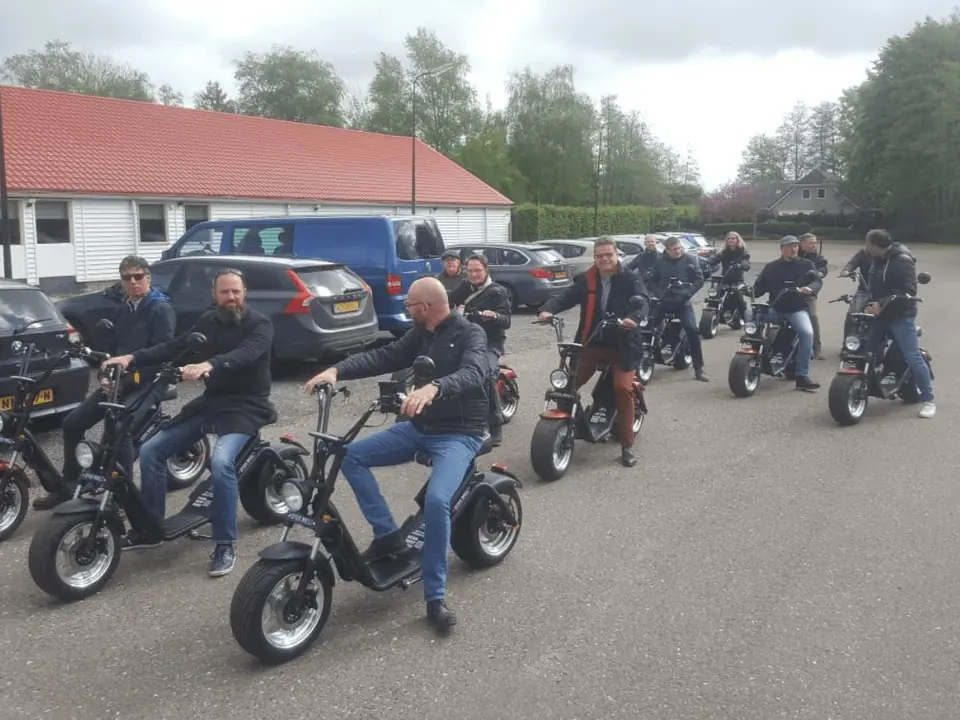
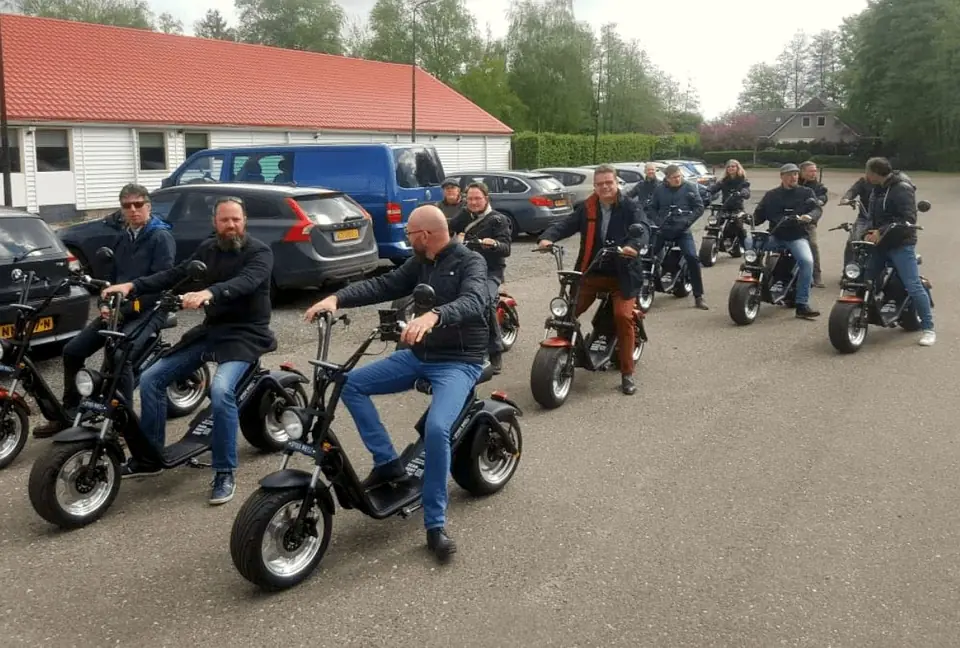
Teamuitjefoto lichter en warmer gemaakt, strook grijze lucht eraf

diff --git a/public/nieuws/index.html b/public/nieuws/index.html
@@ -54,7 +54,7 @@
       <h1>Nieuws &amp; tips</h1>
       <p>Inspiratie voor je rit door Giethoorn en Nationaal Park Weerribben-Wieden.</p>
     </div>
-    <div class="cards"><a class="card" href="/verken-giethoorn-en-haar-prachtige-omgeving-met-een-fatbike/"><img src="/assets/img/fatbike-huren-giethoorn-960.webp" srcset="/assets/img/fatbike-huren-giethoorn-480.webp 480w, /assets/img/fatbike-huren-giethoorn-960.webp 960w, /assets/img/fatbike-huren-giethoorn-1600.webp 1600w, /assets/img/fatbike-huren-giethoorn-2000.webp 2000w" sizes="(max-width: 700px) 100vw, 33vw" width="2000" height="1500" alt="" loading="lazy" decoding="async" class="card-img"><div class="card-body"><h3>Verken Giethoorn en omgeving met een fatbike</h3><p>Ontdek Giethoorn en Nationaal Park Weerribben-Wieden op een elektrische fatbike. Wat is een fatbike, waar rijd je en waarom huur je hem bij Badass Rentals?</p><span class="link-arrow">Lees verder</span></div></a><a class="card" href="/breng-je-team-dichter-bij-elkaar-met-e-choppers-en-fatbikes-in-giethoorn/"><img src="/assets/img/groepsuitje-e-choppers-blokzijl-960.webp" srcset="/assets/img/groepsuitje-e-choppers-blokzijl-480.webp 480w, /assets/img/groepsuitje-e-choppers-blokzijl-960.webp 960w, /assets/img/groepsuitje-e-choppers-blokzijl-1600.webp 1600w" sizes="(max-width: 700px) 100vw, 33vw" width="1600" height="1200" alt="" loading="lazy" decoding="async" class="card-img"><div class="card-body"><h3>Breng je team dichter bij elkaar met e-choppers en fatbikes</h3><p>Op zoek naar een teamuitje vol plezier en teambuilding? Ontdek Giethoorn met je collega&#x27;s op e-choppers en fatbikes, met puzzeltochten, varen en lekker eten.</p><span class="link-arrow">Lees verder</span></div></a><a class="card" href="/ontdek-het-adembenemende-giethoorn-en-weerribben-wieden-op-e-choppers-en-fatbikes/"><img src="/assets/img/e-choppers-weerribben-wieden-riet-960.webp" srcset="/assets/img/e-choppers-weerribben-wieden-riet-480.webp 480w, /assets/img/e-choppers-weerribben-wieden-riet-960.webp 960w, /assets/img/e-choppers-weerribben-wieden-riet-1600.webp 1600w, /assets/img/e-choppers-weerribben-wieden-riet-2000.webp 2000w" sizes="(max-width: 700px) 100vw, 33vw" width="2400" height="1800" alt="" loading="lazy" decoding="async" class="card-img"><div class="card-body"><h3>Ontdek Giethoorn en de Weerribben-Wieden op e-choppers en fatbikes</h3><p>Verken Giethoorn en Nationaal Park Weerribben-Wieden op een stille, emissievrije e-chopper of fatbike. Tips voor je route en direct online boeken.</p><span class="link-arrow">Lees verder</span></div></a><a class="card" href="/nostalgisch-solex-rijden-of-badass-op-een-e-chopper/"><img src="/assets/img/e-chopper-elektrische-harley-960.webp" srcset="/assets/img/e-chopper-elektrische-harley-480.webp 480w, /assets/img/e-chopper-elektrische-harley-960.webp 960w, /assets/img/e-chopper-elektrische-harley-1024.webp 1024w" sizes="(max-width: 700px) 100vw, 33vw" width="1024" height="768" alt="" loading="lazy" decoding="async" class="card-img"><div class="card-body"><h3>Nostalgisch Solex rijden of badass op een e-chopper</h3><p>Solex of e-chopper? Allebei stoer en nostalgisch, maar de e-chopper is stil en elektrisch. Ontdek de verschillen en cruise door Giethoorn en de Weerribben.</p><span class="link-arrow">Lees verder</span></div></a><a class="card" href="/ga-lekker-cruisen-door-oldemarkt/"><img src="/assets/img/e-choppers-weerribben-wieden-riet-960.webp" srcset="/assets/img/e-choppers-weerribben-wieden-riet-480.webp 480w, /assets/img/e-choppers-weerribben-wieden-riet-960.webp 960w, /assets/img/e-choppers-weerribben-wieden-riet-1600.webp 1600w, /assets/img/e-choppers-weerribben-wieden-riet-2000.webp 2000w" sizes="(max-width: 700px) 100vw, 33vw" width="2400" height="1800" alt="" loading="lazy" decoding="async" class="card-img"><div class="card-body"><h3>Ga lekker cruisen door Oldemarkt</h3><p>Oldemarkt ligt aan de rand van de Weerribben-Wieden. Tips voor bezienswaardigheden, de Waterbuffelfarm en leuke weetjes. Verken het op een e-chopper.</p><span class="link-arrow">Lees verder</span></div></a><a class="card" href="/lekker-uitwaaien-op-een-stoer-elektrisch-scootertje/"><img src="/assets/img/e-chopper-rijden-weerribben-wieden-960.webp" srcset="/assets/img/e-chopper-rijden-weerribben-wieden-480.webp 480w, /assets/img/e-chopper-rijden-weerribben-wieden-960.webp 960w, /assets/img/e-chopper-rijden-weerribben-wieden-1200.webp 1200w" sizes="(max-width: 700px) 100vw, 33vw" width="1200" height="900" alt="" loading="lazy" decoding="async" class="card-img"><div class="card-body"><h3>Lekker uitwaaien op een stoere elektrische scooter</h3><p>Voel de wind door je haren op een stoere, stille e-chopper. Cruise met 25 km/u door Giethoorn en Nationaal Park Weerribben-Wieden. Dit is inbegrepen.</p><span class="link-arrow">Lees verder</span></div></a><a class="card" href="/combineer-een-avondje-bios-met-een-tocht-op-onze-scooters/"><img src="/assets/img/e-chopper-bij-bruggetje-giethoorn-960.webp" srcset="/assets/img/e-chopper-bij-bruggetje-giethoorn-480.webp 480w, /assets/img/e-chopper-bij-bruggetje-giethoorn-960.webp 960w, /assets/img/e-chopper-bij-bruggetje-giethoorn-1600.webp 1600w, /assets/img/e-chopper-bij-bruggetje-giethoorn-2000.webp 2000w" sizes="(max-width: 700px) 100vw, 33vw" width="2400" height="1800" alt="" loading="lazy" decoding="async" class="card-img"><div class="card-body"><h3>Combineer een avondje bios met een tocht op de e-chopper</h3><p>Een middag of avond samen vrij? Maak er een badass datenight van: eerst cruisen door Giethoorn op de e-chopper, daarna naar de bioscoop in de regio.</p><span class="link-arrow">Lees verder</span></div></a><a class="card" href="/met-je-vriendinnen-op-stap-met-de-scooter/"><img src="/assets/img/groep-e-choppers-fatbikes-giethoorn-960.webp" srcset="/assets/img/groep-e-choppers-fatbikes-giethoorn-480.webp 480w, /assets/img/groep-e-choppers-fatbikes-giethoorn-960.webp 960w, /assets/img/groep-e-choppers-fatbikes-giethoorn-1600.webp 1600w" sizes="(max-width: 700px) 100vw, 33vw" width="1600" height="1200" alt="" loading="lazy" decoding="async" class="card-img"><div class="card-body"><h3>Met je vriendinnen op stap</h3><p>Geen inspiratie voor een uitje met je vriendinnen? Een lijst met leuke dingen om te doen, binnen en buiten. Van varen tot cruisen op een e-chopper.</p><span class="link-arrow">Lees verder</span></div></a><a class="card" href="/geef-papa-het-stoerste-vaderdag-cadeau/"><img src="/assets/img/e-chopper-fietspad-blokzijl-640.webp" srcset="/assets/img/e-chopper-fietspad-blokzijl-480.webp 480w, /assets/img/e-chopper-fietspad-blokzijl-640.webp 640w" sizes="(max-width: 700px) 100vw, 33vw" width="640" height="480" alt="" loading="lazy" decoding="async" class="card-img"><div class="card-body"><h3>Geef papa het stoerste vaderdagcadeau</h3><p>Op zoek naar een origineel vaderdagcadeau? Geef papa een tocht op een stoere e-chopper door Giethoorn en de Weerribben-Wieden. Plus weetjes over Vaderdag.</p><span class="link-arrow">Lees verder</span></div></a><a class="card" href="/stap-op-de-scooter-in-steenwijk/"><img src="/assets/img/e-chopper-cruisen-giethoorn-960.webp" srcset="/assets/img/e-chopper-cruisen-giethoorn-480.webp 480w, /assets/img/e-chopper-cruisen-giethoorn-960.webp 960w, /assets/img/e-chopper-cruisen-giethoorn-1600.webp 1600w" sizes="(max-width: 700px) 100vw, 33vw" width="1600" height="1200" alt="" loading="lazy" decoding="async" class="card-img"><div class="card-body"><h3>Steenwijk en omgeving ontdekken</h3><p>Steenwijk, de vestingstad in de Kop van Overijssel, heeft mooie bezienswaardigheden. Tips voor musea, de Sint-Clemenstoren en de omgeving, plus leuke weetjes.</p><span class="link-arrow">Lees verder</span></div></a><a class="card" href="/verken-de-omgeving-van-kalenberg/"><img src="/assets/img/e-chopper-rijden-weerribben-wieden-960.webp" srcset="/assets/img/e-chopper-rijden-weerribben-wieden-480.webp 480w, /assets/img/e-chopper-rijden-weerribben-wieden-960.webp 960w, /assets/img/e-chopper-rijden-weerribben-wieden-1200.webp 1200w" sizes="(max-width: 700px) 100vw, 33vw" width="1200" height="900" alt="" loading="lazy" decoding="async" class="card-img"><div class="card-body"><h3>Verken de omgeving van Kalenberg</h3><p>Kalenberg ligt midden in de Weerribben-Wieden en laat zien hoe Giethoorn er vroeger uitzag. Tips, weetjes en de mooiste manier om het te verkennen.</p><span class="link-arrow">Lees verder</span></div></a><a class="card" href="/ben-jij-een-badass-voetbalkoning/"><img src="/assets/img/groep-cruisen-e-choppers-640.webp" srcset="/assets/img/groep-cruisen-e-choppers-480.webp 480w, /assets/img/groep-cruisen-e-choppers-640.webp 640w" sizes="(max-width: 700px) 100vw, 33vw" width="640" height="480" alt="" loading="lazy" decoding="async" class="card-img"><div class="card-body"><h3>Ben jij een badass voetbalkoning?</h3><p>Deel jij elk weekend panna&#x27;s en steekpasses uit? Dan hebben we een uitje op jouw niveau: met je matties cruisen op stoere e-choppers door Giethoorn.</p><span class="link-arrow">Lees verder</span></div></a><a class="card" href="/lekker-toeren-in-en-om-havelte-met-onze-elektrische-scooters/"><img src="/assets/img/elektrische-fatbikes-rij-aan-het-water-960.webp" srcset="/assets/img/elektrische-fatbikes-rij-aan-het-water-480.webp 480w, /assets/img/elektrische-fatbikes-rij-aan-het-water-960.webp 960w, /assets/img/elektrische-fatbikes-rij-aan-het-water-1600.webp 1600w, /assets/img/elektrische-fatbikes-rij-aan-het-water-2000.webp 2000w" sizes="(max-width: 700px) 100vw, 33vw" width="2048" height="1536" alt="" loading="lazy" decoding="async" class="card-img"><div class="card-body"><h3>Lekker toeren in en om Havelte</h3><p>Havelte, de Parel van Drenthe, met hunebedden, heide en Schotse Hooglanders. Tips en weetjes over dit mooie brinkdorp vlak bij Giethoorn.</p><span class="link-arrow">Lees verder</span></div></a><a class="card" href="/maak-de-blitz-op-de-donderdag-meppel-dagen/"><img src="/assets/img/e-choppers-haven-blokzijl-960.webp" srcset="/assets/img/e-choppers-haven-blokzijl-480.webp 480w, /assets/img/e-choppers-haven-blokzijl-960.webp 960w, /assets/img/e-choppers-haven-blokzijl-1600.webp 1600w" sizes="(max-width: 700px) 100vw, 33vw" width="1600" height="1200" alt="" loading="lazy" decoding="async" class="card-img"><div class="card-body"><h3>Maak de blitz op de Donderdag Meppel Dagen</h3><p>De Donderdag Meppel Dagen zijn een begrip in de regio. Wat is er te doen, hoe is het ontstaan en hoe combineer je het met een dagje cruisen in de Weerribben?</p><span class="link-arrow">Lees verder</span></div></a><a class="card" href="/organiseer-een-teamuitje-met-elektrische-scooters/"><img src="/assets/img/teamuitje-e-choppers-giethoorn-960.webp" srcset="/assets/img/teamuitje-e-choppers-giethoorn-480.webp 480w, /assets/img/teamuitje-e-choppers-giethoorn-960.webp 960w, /assets/img/teamuitje-e-choppers-giethoorn-1200.webp 1200w" sizes="(max-width: 700px) 100vw, 33vw" width="1200" height="900" alt="" loading="lazy" decoding="async" class="card-img"><div class="card-body"><h3>Organiseer een teamuitje met elektrische scooters</h3><p>Zeskamp, wadlopen of cruisen op e-choppers? Zo organiseer je het stoerste teamuitje, met teams, puzzels onderweg en een game op maat voor jullie bedrijf.</p><span class="link-arrow">Lees verder</span></div></a></div>
+    <div class="cards"><a class="card" href="/verken-giethoorn-en-haar-prachtige-omgeving-met-een-fatbike/"><img src="/assets/img/fatbike-huren-giethoorn-960.webp" srcset="/assets/img/fatbike-huren-giethoorn-480.webp 480w, /assets/img/fatbike-huren-giethoorn-960.webp 960w, /assets/img/fatbike-huren-giethoorn-1600.webp 1600w, /assets/img/fatbike-huren-giethoorn-2000.webp 2000w" sizes="(max-width: 700px) 100vw, 33vw" width="2000" height="1500" alt="" loading="lazy" decoding="async" class="card-img"><div class="card-body"><h3>Verken Giethoorn en omgeving met een fatbike</h3><p>Ontdek Giethoorn en Nationaal Park Weerribben-Wieden op een elektrische fatbike. Wat is een fatbike, waar rijd je en waarom huur je hem bij Badass Rentals?</p><span class="link-arrow">Lees verder</span></div></a><a class="card" href="/breng-je-team-dichter-bij-elkaar-met-e-choppers-en-fatbikes-in-giethoorn/"><img src="/assets/img/groepsuitje-e-choppers-blokzijl-960.webp" srcset="/assets/img/groepsuitje-e-choppers-blokzijl-480.webp 480w, /assets/img/groepsuitje-e-choppers-blokzijl-960.webp 960w, /assets/img/groepsuitje-e-choppers-blokzijl-1600.webp 1600w" sizes="(max-width: 700px) 100vw, 33vw" width="1600" height="1200" alt="" loading="lazy" decoding="async" class="card-img"><div class="card-body"><h3>Breng je team dichter bij elkaar met e-choppers en fatbikes</h3><p>Op zoek naar een teamuitje vol plezier en teambuilding? Ontdek Giethoorn met je collega&#x27;s op e-choppers en fatbikes, met puzzeltochten, varen en lekker eten.</p><span class="link-arrow">Lees verder</span></div></a><a class="card" href="/ontdek-het-adembenemende-giethoorn-en-weerribben-wieden-op-e-choppers-en-fatbikes/"><img src="/assets/img/e-choppers-weerribben-wieden-riet-960.webp" srcset="/assets/img/e-choppers-weerribben-wieden-riet-480.webp 480w, /assets/img/e-choppers-weerribben-wieden-riet-960.webp 960w, /assets/img/e-choppers-weerribben-wieden-riet-1600.webp 1600w, /assets/img/e-choppers-weerribben-wieden-riet-2000.webp 2000w" sizes="(max-width: 700px) 100vw, 33vw" width="2400" height="1800" alt="" loading="lazy" decoding="async" class="card-img"><div class="card-body"><h3>Ontdek Giethoorn en de Weerribben-Wieden op e-choppers en fatbikes</h3><p>Verken Giethoorn en Nationaal Park Weerribben-Wieden op een stille, emissievrije e-chopper of fatbike. Tips voor je route en direct online boeken.</p><span class="link-arrow">Lees verder</span></div></a><a class="card" href="/nostalgisch-solex-rijden-of-badass-op-een-e-chopper/"><img src="/assets/img/e-chopper-elektrische-harley-960.webp" srcset="/assets/img/e-chopper-elektrische-harley-480.webp 480w, /assets/img/e-chopper-elektrische-harley-960.webp 960w, /assets/img/e-chopper-elektrische-harley-1024.webp 1024w" sizes="(max-width: 700px) 100vw, 33vw" width="1024" height="768" alt="" loading="lazy" decoding="async" class="card-img"><div class="card-body"><h3>Nostalgisch Solex rijden of badass op een e-chopper</h3><p>Solex of e-chopper? Allebei stoer en nostalgisch, maar de e-chopper is stil en elektrisch. Ontdek de verschillen en cruise door Giethoorn en de Weerribben.</p><span class="link-arrow">Lees verder</span></div></a><a class="card" href="/ga-lekker-cruisen-door-oldemarkt/"><img src="/assets/img/e-choppers-weerribben-wieden-riet-960.webp" srcset="/assets/img/e-choppers-weerribben-wieden-riet-480.webp 480w, /assets/img/e-choppers-weerribben-wieden-riet-960.webp 960w, /assets/img/e-choppers-weerribben-wieden-riet-1600.webp 1600w, /assets/img/e-choppers-weerribben-wieden-riet-2000.webp 2000w" sizes="(max-width: 700px) 100vw, 33vw" width="2400" height="1800" alt="" loading="lazy" decoding="async" class="card-img"><div class="card-body"><h3>Ga lekker cruisen door Oldemarkt</h3><p>Oldemarkt ligt aan de rand van de Weerribben-Wieden. Tips voor bezienswaardigheden, de Waterbuffelfarm en leuke weetjes. Verken het op een e-chopper.</p><span class="link-arrow">Lees verder</span></div></a><a class="card" href="/lekker-uitwaaien-op-een-stoer-elektrisch-scootertje/"><img src="/assets/img/e-chopper-rijden-weerribben-wieden-960.webp" srcset="/assets/img/e-chopper-rijden-weerribben-wieden-480.webp 480w, /assets/img/e-chopper-rijden-weerribben-wieden-960.webp 960w, /assets/img/e-chopper-rijden-weerribben-wieden-1200.webp 1200w" sizes="(max-width: 700px) 100vw, 33vw" width="1200" height="900" alt="" loading="lazy" decoding="async" class="card-img"><div class="card-body"><h3>Lekker uitwaaien op een stoere elektrische scooter</h3><p>Voel de wind door je haren op een stoere, stille e-chopper. Cruise met 25 km/u door Giethoorn en Nationaal Park Weerribben-Wieden. Dit is inbegrepen.</p><span class="link-arrow">Lees verder</span></div></a><a class="card" href="/combineer-een-avondje-bios-met-een-tocht-op-onze-scooters/"><img src="/assets/img/e-chopper-bij-bruggetje-giethoorn-960.webp" srcset="/assets/img/e-chopper-bij-bruggetje-giethoorn-480.webp 480w, /assets/img/e-chopper-bij-bruggetje-giethoorn-960.webp 960w, /assets/img/e-chopper-bij-bruggetje-giethoorn-1600.webp 1600w, /assets/img/e-chopper-bij-bruggetje-giethoorn-2000.webp 2000w" sizes="(max-width: 700px) 100vw, 33vw" width="2400" height="1800" alt="" loading="lazy" decoding="async" class="card-img"><div class="card-body"><h3>Combineer een avondje bios met een tocht op de e-chopper</h3><p>Een middag of avond samen vrij? Maak er een badass datenight van: eerst cruisen door Giethoorn op de e-chopper, daarna naar de bioscoop in de regio.</p><span class="link-arrow">Lees verder</span></div></a><a class="card" href="/met-je-vriendinnen-op-stap-met-de-scooter/"><img src="/assets/img/groep-e-choppers-fatbikes-giethoorn-960.webp" srcset="/assets/img/groep-e-choppers-fatbikes-giethoorn-480.webp 480w, /assets/img/groep-e-choppers-fatbikes-giethoorn-960.webp 960w, /assets/img/groep-e-choppers-fatbikes-giethoorn-1600.webp 1600w" sizes="(max-width: 700px) 100vw, 33vw" width="1600" height="1200" alt="" loading="lazy" decoding="async" class="card-img"><div class="card-body"><h3>Met je vriendinnen op stap</h3><p>Geen inspiratie voor een uitje met je vriendinnen? Een lijst met leuke dingen om te doen, binnen en buiten. Van varen tot cruisen op een e-chopper.</p><span class="link-arrow">Lees verder</span></div></a><a class="card" href="/geef-papa-het-stoerste-vaderdag-cadeau/"><img src="/assets/img/e-chopper-fietspad-blokzijl-640.webp" srcset="/assets/img/e-chopper-fietspad-blokzijl-480.webp 480w, /assets/img/e-chopper-fietspad-blokzijl-640.webp 640w" sizes="(max-width: 700px) 100vw, 33vw" width="640" height="480" alt="" loading="lazy" decoding="async" class="card-img"><div class="card-body"><h3>Geef papa het stoerste vaderdagcadeau</h3><p>Op zoek naar een origineel vaderdagcadeau? Geef papa een tocht op een stoere e-chopper door Giethoorn en de Weerribben-Wieden. Plus weetjes over Vaderdag.</p><span class="link-arrow">Lees verder</span></div></a><a class="card" href="/stap-op-de-scooter-in-steenwijk/"><img src="/assets/img/e-chopper-cruisen-giethoorn-960.webp" srcset="/assets/img/e-chopper-cruisen-giethoorn-480.webp 480w, /assets/img/e-chopper-cruisen-giethoorn-960.webp 960w, /assets/img/e-chopper-cruisen-giethoorn-1600.webp 1600w" sizes="(max-width: 700px) 100vw, 33vw" width="1600" height="1200" alt="" loading="lazy" decoding="async" class="card-img"><div class="card-body"><h3>Steenwijk en omgeving ontdekken</h3><p>Steenwijk, de vestingstad in de Kop van Overijssel, heeft mooie bezienswaardigheden. Tips voor musea, de Sint-Clemenstoren en de omgeving, plus leuke weetjes.</p><span class="link-arrow">Lees verder</span></div></a><a class="card" href="/verken-de-omgeving-van-kalenberg/"><img src="/assets/img/e-chopper-rijden-weerribben-wieden-960.webp" srcset="/assets/img/e-chopper-rijden-weerribben-wieden-480.webp 480w, /assets/img/e-chopper-rijden-weerribben-wieden-960.webp 960w, /assets/img/e-chopper-rijden-weerribben-wieden-1200.webp 1200w" sizes="(max-width: 700px) 100vw, 33vw" width="1200" height="900" alt="" loading="lazy" decoding="async" class="card-img"><div class="card-body"><h3>Verken de omgeving van Kalenberg</h3><p>Kalenberg ligt midden in de Weerribben-Wieden en laat zien hoe Giethoorn er vroeger uitzag. Tips, weetjes en de mooiste manier om het te verkennen.</p><span class="link-arrow">Lees verder</span></div></a><a class="card" href="/ben-jij-een-badass-voetbalkoning/"><img src="/assets/img/groep-cruisen-e-choppers-640.webp" srcset="/assets/img/groep-cruisen-e-choppers-480.webp 480w, /assets/img/groep-cruisen-e-choppers-640.webp 640w" sizes="(max-width: 700px) 100vw, 33vw" width="640" height="480" alt="" loading="lazy" decoding="async" class="card-img"><div class="card-body"><h3>Ben jij een badass voetbalkoning?</h3><p>Deel jij elk weekend panna&#x27;s en steekpasses uit? Dan hebben we een uitje op jouw niveau: met je matties cruisen op stoere e-choppers door Giethoorn.</p><span class="link-arrow">Lees verder</span></div></a><a class="card" href="/lekker-toeren-in-en-om-havelte-met-onze-elektrische-scooters/"><img src="/assets/img/elektrische-fatbikes-rij-aan-het-water-960.webp" srcset="/assets/img/elektrische-fatbikes-rij-aan-het-water-480.webp 480w, /assets/img/elektrische-fatbikes-rij-aan-het-water-960.webp 960w, /assets/img/elektrische-fatbikes-rij-aan-het-water-1600.webp 1600w, /assets/img/elektrische-fatbikes-rij-aan-het-water-2000.webp 2000w" sizes="(max-width: 700px) 100vw, 33vw" width="2048" height="1536" alt="" loading="lazy" decoding="async" class="card-img"><div class="card-body"><h3>Lekker toeren in en om Havelte</h3><p>Havelte, de Parel van Drenthe, met hunebedden, heide en Schotse Hooglanders. Tips en weetjes over dit mooie brinkdorp vlak bij Giethoorn.</p><span class="link-arrow">Lees verder</span></div></a><a class="card" href="/maak-de-blitz-op-de-donderdag-meppel-dagen/"><img src="/assets/img/e-choppers-haven-blokzijl-960.webp" srcset="/assets/img/e-choppers-haven-blokzijl-480.webp 480w, /assets/img/e-choppers-haven-blokzijl-960.webp 960w, /assets/img/e-choppers-haven-blokzijl-1600.webp 1600w" sizes="(max-width: 700px) 100vw, 33vw" width="1600" height="1200" alt="" loading="lazy" decoding="async" class="card-img"><div class="card-body"><h3>Maak de blitz op de Donderdag Meppel Dagen</h3><p>De Donderdag Meppel Dagen zijn een begrip in de regio. Wat is er te doen, hoe is het ontstaan en hoe combineer je het met een dagje cruisen in de Weerribben?</p><span class="link-arrow">Lees verder</span></div></a><a class="card" href="/organiseer-een-teamuitje-met-elektrische-scooters/"><img src="/assets/img/teamuitje-e-choppers-giethoorn-960.webp" srcset="/assets/img/teamuitje-e-choppers-giethoorn-480.webp 480w, /assets/img/teamuitje-e-choppers-giethoorn-960.webp 960w, /assets/img/teamuitje-e-choppers-giethoorn-1200.webp 1200w" sizes="(max-width: 700px) 100vw, 33vw" width="1200" height="810" alt="" loading="lazy" decoding="async" class="card-img"><div class="card-body"><h3>Organiseer een teamuitje met elektrische scooters</h3><p>Zeskamp, wadlopen of cruisen op e-choppers? Zo organiseer je het stoerste teamuitje, met teams, puzzels onderweg en een game op maat voor jullie bedrijf.</p><span class="link-arrow">Lees verder</span></div></a></div>
   </div>
 </section>
 <section class="cta-band">

diff --git a/public/ben-jij-een-badass-voetbalkoning/index.html b/public/ben-jij-een-badass-voetbalkoning/index.html
@@ -63,7 +63,7 @@
     <p class="btn-row"><a class="btn btn-accent" href="https://verhuur.badassrentals.nl/product/E-chopper">Reserveer een e-chopper</a><a class="btn btn-ghost" href="https://verhuur.badassrentals.nl/product/fat-bike">Reserveer een fatbike</a></p>
   </div>
 </article>
-<section class="section section-alt"><div class="wrap"><p class="prose" style="margin:0 auto 36px;font-size:1.1rem">Zelf op pad? Lees alles over <a href="/teamuitje-met-echopper/">teamuitjes in Giethoorn</a> of bekijk <a href="/arrangementen/">onze arrangementen</a>.</p><h2>Lees ook</h2><div class="cards"><a class="card" href="/breng-je-team-dichter-bij-elkaar-met-e-choppers-en-fatbikes-in-giethoorn/"><img src="/assets/img/groepsuitje-e-choppers-blokzijl-960.webp" srcset="/assets/img/groepsuitje-e-choppers-blokzijl-480.webp 480w, /assets/img/groepsuitje-e-choppers-blokzijl-960.webp 960w, /assets/img/groepsuitje-e-choppers-blokzijl-1600.webp 1600w" sizes="(max-width: 700px) 100vw, 33vw" width="1600" height="1200" alt="" loading="lazy" decoding="async" class="card-img"><div class="card-body"><h3>Breng je team dichter bij elkaar met e-choppers en fatbikes</h3><p>Op zoek naar een teamuitje vol plezier en teambuilding? Ontdek Giethoorn met je collega&#x27;s op e-choppers en fatbikes, met puzzeltochten, varen en lekker eten.</p><span class="link-arrow">Lees verder</span></div></a><a class="card" href="/met-je-vriendinnen-op-stap-met-de-scooter/"><img src="/assets/img/groep-e-choppers-fatbikes-giethoorn-960.webp" srcset="/assets/img/groep-e-choppers-fatbikes-giethoorn-480.webp 480w, /assets/img/groep-e-choppers-fatbikes-giethoorn-960.webp 960w, /assets/img/groep-e-choppers-fatbikes-giethoorn-1600.webp 1600w" sizes="(max-width: 700px) 100vw, 33vw" width="1600" height="1200" alt="" loading="lazy" decoding="async" class="card-img"><div class="card-body"><h3>Met je vriendinnen op stap</h3><p>Geen inspiratie voor een uitje met je vriendinnen? Een lijst met leuke dingen om te doen, binnen en buiten. Van varen tot cruisen op een e-chopper.</p><span class="link-arrow">Lees verder</span></div></a><a class="card" href="/organiseer-een-teamuitje-met-elektrische-scooters/"><img src="/assets/img/teamuitje-e-choppers-giethoorn-960.webp" srcset="/assets/img/teamuitje-e-choppers-giethoorn-480.webp 480w, /assets/img/teamuitje-e-choppers-giethoorn-960.webp 960w, /assets/img/teamuitje-e-choppers-giethoorn-1200.webp 1200w" sizes="(max-width: 700px) 100vw, 33vw" width="1200" height="900" alt="" loading="lazy" decoding="async" class="card-img"><div class="card-body"><h3>Organiseer een teamuitje met elektrische scooters</h3><p>Zeskamp, wadlopen of cruisen op e-choppers? Zo organiseer je het stoerste teamuitje, met teams, puzzels onderweg en een game op maat voor jullie bedrijf.</p><span class="link-arrow">Lees verder</span></div></a></div></div></section>
+<section class="section section-alt"><div class="wrap"><p class="prose" style="margin:0 auto 36px;font-size:1.1rem">Zelf op pad? Lees alles over <a href="/teamuitje-met-echopper/">teamuitjes in Giethoorn</a> of bekijk <a href="/arrangementen/">onze arrangementen</a>.</p><h2>Lees ook</h2><div class="cards"><a class="card" href="/breng-je-team-dichter-bij-elkaar-met-e-choppers-en-fatbikes-in-giethoorn/"><img src="/assets/img/groepsuitje-e-choppers-blokzijl-960.webp" srcset="/assets/img/groepsuitje-e-choppers-blokzijl-480.webp 480w, /assets/img/groepsuitje-e-choppers-blokzijl-960.webp 960w, /assets/img/groepsuitje-e-choppers-blokzijl-1600.webp 1600w" sizes="(max-width: 700px) 100vw, 33vw" width="1600" height="1200" alt="" loading="lazy" decoding="async" class="card-img"><div class="card-body"><h3>Breng je team dichter bij elkaar met e-choppers en fatbikes</h3><p>Op zoek naar een teamuitje vol plezier en teambuilding? Ontdek Giethoorn met je collega&#x27;s op e-choppers en fatbikes, met puzzeltochten, varen en lekker eten.</p><span class="link-arrow">Lees verder</span></div></a><a class="card" href="/met-je-vriendinnen-op-stap-met-de-scooter/"><img src="/assets/img/groep-e-choppers-fatbikes-giethoorn-960.webp" srcset="/assets/img/groep-e-choppers-fatbikes-giethoorn-480.webp 480w, /assets/img/groep-e-choppers-fatbikes-giethoorn-960.webp 960w, /assets/img/groep-e-choppers-fatbikes-giethoorn-1600.webp 1600w" sizes="(max-width: 700px) 100vw, 33vw" width="1600" height="1200" alt="" loading="lazy" decoding="async" class="card-img"><div class="card-body"><h3>Met je vriendinnen op stap</h3><p>Geen inspiratie voor een uitje met je vriendinnen? Een lijst met leuke dingen om te doen, binnen en buiten. Van varen tot cruisen op een e-chopper.</p><span class="link-arrow">Lees verder</span></div></a><a class="card" href="/organiseer-een-teamuitje-met-elektrische-scooters/"><img src="/assets/img/teamuitje-e-choppers-giethoorn-960.webp" srcset="/assets/img/teamuitje-e-choppers-giethoorn-480.webp 480w, /assets/img/teamuitje-e-choppers-giethoorn-960.webp 960w, /assets/img/teamuitje-e-choppers-giethoorn-1200.webp 1200w" sizes="(max-width: 700px) 100vw, 33vw" width="1200" height="810" alt="" loading="lazy" decoding="async" class="card-img"><div class="card-body"><h3>Organiseer een teamuitje met elektrische scooters</h3><p>Zeskamp, wadlopen of cruisen op e-choppers? Zo organiseer je het stoerste teamuitje, met teams, puzzels onderweg en een game op maat voor jullie bedrijf.</p><span class="link-arrow">Lees verder</span></div></a></div></div></section>
 </main>
 <footer class="site-footer">
   <div class="wrap footer-grid">

diff --git a/public/met-je-vriendinnen-op-stap-met-de-scooter/index.html b/public/met-je-vriendinnen-op-stap-met-de-scooter/index.html
@@ -74,7 +74,7 @@
     <p class="btn-row"><a class="btn btn-accent" href="https://verhuur.badassrentals.nl/product/E-chopper">Reserveer een e-chopper</a><a class="btn btn-ghost" href="https://verhuur.badassrentals.nl/product/fat-bike">Reserveer een fatbike</a></p>
   </div>
 </article>
-<section class="section section-alt"><div class="wrap"><p class="prose" style="margin:0 auto 36px;font-size:1.1rem">Zelf op pad? Lees alles over <a href="/teamuitje-met-echopper/">teamuitjes in Giethoorn</a> of bekijk <a href="/arrangementen/">onze arrangementen</a>.</p><h2>Lees ook</h2><div class="cards"><a class="card" href="/organiseer-een-teamuitje-met-elektrische-scooters/"><img src="/assets/img/teamuitje-e-choppers-giethoorn-960.webp" srcset="/assets/img/teamuitje-e-choppers-giethoorn-480.webp 480w, /assets/img/teamuitje-e-choppers-giethoorn-960.webp 960w, /assets/img/teamuitje-e-choppers-giethoorn-1200.webp 1200w" sizes="(max-width: 700px) 100vw, 33vw" width="1200" height="900" alt="" loading="lazy" decoding="async" class="card-img"><div class="card-body"><h3>Organiseer een teamuitje met elektrische scooters</h3><p>Zeskamp, wadlopen of cruisen op e-choppers? Zo organiseer je het stoerste teamuitje, met teams, puzzels onderweg en een game op maat voor jullie bedrijf.</p><span class="link-arrow">Lees verder</span></div></a><a class="card" href="/ben-jij-een-badass-voetbalkoning/"><img src="/assets/img/groep-cruisen-e-choppers-640.webp" srcset="/assets/img/groep-cruisen-e-choppers-480.webp 480w, /assets/img/groep-cruisen-e-choppers-640.webp 640w" sizes="(max-width: 700px) 100vw, 33vw" width="640" height="480" alt="" loading="lazy" decoding="async" class="card-img"><div class="card-body"><h3>Ben jij een badass voetbalkoning?</h3><p>Deel jij elk weekend panna&#x27;s en steekpasses uit? Dan hebben we een uitje op jouw niveau: met je matties cruisen op stoere e-choppers door Giethoorn.</p><span class="link-arrow">Lees verder</span></div></a><a class="card" href="/breng-je-team-dichter-bij-elkaar-met-e-choppers-en-fatbikes-in-giethoorn/"><img src="/assets/img/groepsuitje-e-choppers-blokzijl-960.webp" srcset="/assets/img/groepsuitje-e-choppers-blokzijl-480.webp 480w, /assets/img/groepsuitje-e-choppers-blokzijl-960.webp 960w, /assets/img/groepsuitje-e-choppers-blokzijl-1600.webp 1600w" sizes="(max-width: 700px) 100vw, 33vw" width="1600" height="1200" alt="" loading="lazy" decoding="async" class="card-img"><div class="card-body"><h3>Breng je team dichter bij elkaar met e-choppers en fatbikes</h3><p>Op zoek naar een teamuitje vol plezier en teambuilding? Ontdek Giethoorn met je collega&#x27;s op e-choppers en fatbikes, met puzzeltochten, varen en lekker eten.</p><span class="link-arrow">Lees verder</span></div></a></div></div></section>
+<section class="section section-alt"><div class="wrap"><p class="prose" style="margin:0 auto 36px;font-size:1.1rem">Zelf op pad? Lees alles over <a href="/teamuitje-met-echopper/">teamuitjes in Giethoorn</a> of bekijk <a href="/arrangementen/">onze arrangementen</a>.</p><h2>Lees ook</h2><div class="cards"><a class="card" href="/organiseer-een-teamuitje-met-elektrische-scooters/"><img src="/assets/img/teamuitje-e-choppers-giethoorn-960.webp" srcset="/assets/img/teamuitje-e-choppers-giethoorn-480.webp 480w, /assets/img/teamuitje-e-choppers-giethoorn-960.webp 960w, /assets/img/teamuitje-e-choppers-giethoorn-1200.webp 1200w" sizes="(max-width: 700px) 100vw, 33vw" width="1200" height="810" alt="" loading="lazy" decoding="async" class="card-img"><div class="card-body"><h3>Organiseer een teamuitje met elektrische scooters</h3><p>Zeskamp, wadlopen of cruisen op e-choppers? Zo organiseer je het stoerste teamuitje, met teams, puzzels onderweg en een game op maat voor jullie bedrijf.</p><span class="link-arrow">Lees verder</span></div></a><a class="card" href="/ben-jij-een-badass-voetbalkoning/"><img src="/assets/img/groep-cruisen-e-choppers-640.webp" srcset="/assets/img/groep-cruisen-e-choppers-480.webp 480w, /assets/img/groep-cruisen-e-choppers-640.webp 640w" sizes="(max-width: 700px) 100vw, 33vw" width="640" height="480" alt="" loading="lazy" decoding="async" class="card-img"><div class="card-body"><h3>Ben jij een badass voetbalkoning?</h3><p>Deel jij elk weekend panna&#x27;s en steekpasses uit? Dan hebben we een uitje op jouw niveau: met je matties cruisen op stoere e-choppers door Giethoorn.</p><span class="link-arrow">Lees verder</span></div></a><a class="card" href="/breng-je-team-dichter-bij-elkaar-met-e-choppers-en-fatbikes-in-giethoorn/"><img src="/assets/img/groepsuitje-e-choppers-blokzijl-960.webp" srcset="/assets/img/groepsuitje-e-choppers-blokzijl-480.webp 480w, /assets/img/groepsuitje-e-choppers-blokzijl-960.webp 960w, /assets/img/groepsuitje-e-choppers-blokzijl-1600.webp 1600w" sizes="(max-width: 700px) 100vw, 33vw" width="1600" height="1200" alt="" loading="lazy" decoding="async" class="card-img"><div class="card-body"><h3>Breng je team dichter bij elkaar met e-choppers en fatbikes</h3><p>Op zoek naar een teamuitje vol plezier en teambuilding? Ontdek Giethoorn met je collega&#x27;s op e-choppers en fatbikes, met puzzeltochten, varen en lekker eten.</p><span class="link-arrow">Lees verder</span></div></a></div></div></section>
 </main>
 <footer class="site-footer">
   <div class="wrap footer-grid">

diff --git a/public/breng-je-team-dichter-bij-elkaar-met-e-choppers-en-fatbikes-in-giethoorn/index.html b/public/breng-je-team-dichter-bij-elkaar-met-e-choppers-en-fatbikes-in-giethoorn/index.html
@@ -65,7 +65,7 @@
     <p class="btn-row"><a class="btn btn-accent" href="/teamuitje-met-echopper/">Teamuitje samenstellen</a><a class="btn btn-ghost" href="https://verhuur.badassrentals.nl/">Los huren</a></p>
   </div>
 </article>
-<section class="section section-alt"><div class="wrap"><p class="prose" style="margin:0 auto 36px;font-size:1.1rem">Zelf op pad? Lees alles over <a href="/teamuitje-met-echopper/">teamuitjes in Giethoorn</a> of bekijk <a href="/arrangementen/">onze arrangementen</a>.</p><h2>Lees ook</h2><div class="cards"><a class="card" href="/met-je-vriendinnen-op-stap-met-de-scooter/"><img src="/assets/img/groep-e-choppers-fatbikes-giethoorn-960.webp" srcset="/assets/img/groep-e-choppers-fatbikes-giethoorn-480.webp 480w, /assets/img/groep-e-choppers-fatbikes-giethoorn-960.webp 960w, /assets/img/groep-e-choppers-fatbikes-giethoorn-1600.webp 1600w" sizes="(max-width: 700px) 100vw, 33vw" width="1600" height="1200" alt="" loading="lazy" decoding="async" class="card-img"><div class="card-body"><h3>Met je vriendinnen op stap</h3><p>Geen inspiratie voor een uitje met je vriendinnen? Een lijst met leuke dingen om te doen, binnen en buiten. Van varen tot cruisen op een e-chopper.</p><span class="link-arrow">Lees verder</span></div></a><a class="card" href="/organiseer-een-teamuitje-met-elektrische-scooters/"><img src="/assets/img/teamuitje-e-choppers-giethoorn-960.webp" srcset="/assets/img/teamuitje-e-choppers-giethoorn-480.webp 480w, /assets/img/teamuitje-e-choppers-giethoorn-960.webp 960w, /assets/img/teamuitje-e-choppers-giethoorn-1200.webp 1200w" sizes="(max-width: 700px) 100vw, 33vw" width="1200" height="900" alt="" loading="lazy" decoding="async" class="card-img"><div class="card-body"><h3>Organiseer een teamuitje met elektrische scooters</h3><p>Zeskamp, wadlopen of cruisen op e-choppers? Zo organiseer je het stoerste teamuitje, met teams, puzzels onderweg en een game op maat voor jullie bedrijf.</p><span class="link-arrow">Lees verder</span></div></a><a class="card" href="/ben-jij-een-badass-voetbalkoning/"><img src="/assets/img/groep-cruisen-e-choppers-640.webp" srcset="/assets/img/groep-cruisen-e-choppers-480.webp 480w, /assets/img/groep-cruisen-e-choppers-640.webp 640w" sizes="(max-width: 700px) 100vw, 33vw" width="640" height="480" alt="" loading="lazy" decoding="async" class="card-img"><div class="card-body"><h3>Ben jij een badass voetbalkoning?</h3><p>Deel jij elk weekend panna&#x27;s en steekpasses uit? Dan hebben we een uitje op jouw niveau: met je matties cruisen op stoere e-choppers door Giethoorn.</p><span class="link-arrow">Lees verder</span></div></a></div></div></section>
+<section class="section section-alt"><div class="wrap"><p class="prose" style="margin:0 auto 36px;font-size:1.1rem">Zelf op pad? Lees alles over <a href="/teamuitje-met-echopper/">teamuitjes in Giethoorn</a> of bekijk <a href="/arrangementen/">onze arrangementen</a>.</p><h2>Lees ook</h2><div class="cards"><a class="card" href="/met-je-vriendinnen-op-stap-met-de-scooter/"><img src="/assets/img/groep-e-choppers-fatbikes-giethoorn-960.webp" srcset="/assets/img/groep-e-choppers-fatbikes-giethoorn-480.webp 480w, /assets/img/groep-e-choppers-fatbikes-giethoorn-960.webp 960w, /assets/img/groep-e-choppers-fatbikes-giethoorn-1600.webp 1600w" sizes="(max-width: 700px) 100vw, 33vw" width="1600" height="1200" alt="" loading="lazy" decoding="async" class="card-img"><div class="card-body"><h3>Met je vriendinnen op stap</h3><p>Geen inspiratie voor een uitje met je vriendinnen? Een lijst met leuke dingen om te doen, binnen en buiten. Van varen tot cruisen op een e-chopper.</p><span class="link-arrow">Lees verder</span></div></a><a class="card" href="/organiseer-een-teamuitje-met-elektrische-scooters/"><img src="/assets/img/teamuitje-e-choppers-giethoorn-960.webp" srcset="/assets/img/teamuitje-e-choppers-giethoorn-480.webp 480w, /assets/img/teamuitje-e-choppers-giethoorn-960.webp 960w, /assets/img/teamuitje-e-choppers-giethoorn-1200.webp 1200w" sizes="(max-width: 700px) 100vw, 33vw" width="1200" height="810" alt="" loading="lazy" decoding="async" class="card-img"><div class="card-body"><h3>Organiseer een teamuitje met elektrische scooters</h3><p>Zeskamp, wadlopen of cruisen op e-choppers? Zo organiseer je het stoerste teamuitje, met teams, puzzels onderweg en een game op maat voor jullie bedrijf.</p><span class="link-arrow">Lees verder</span></div></a><a class="card" href="/ben-jij-een-badass-voetbalkoning/"><img src="/assets/img/groep-cruisen-e-choppers-640.webp" srcset="/assets/img/groep-cruisen-e-choppers-480.webp 480w, /assets/img/groep-cruisen-e-choppers-640.webp 640w" sizes="(max-width: 700px) 100vw, 33vw" width="640" height="480" alt="" loading="lazy" decoding="async" class="card-img"><div class="card-body"><h3>Ben jij een badass voetbalkoning?</h3><p>Deel jij elk weekend panna&#x27;s en steekpasses uit? Dan hebben we een uitje op jouw niveau: met je matties cruisen op stoere e-choppers door Giethoorn.</p><span class="link-arrow">Lees verder</span></div></a></div></div></section>
 </main>
 <footer class="site-footer">
   <div class="wrap footer-grid">

diff --git a/public/organiseer-een-teamuitje-met-elektrische-scooters/index.html b/public/organiseer-een-teamuitje-met-elektrische-scooters/index.html
@@ -52,7 +52,7 @@
   <div class="wrap prose">
     <span class="tag">22 februari 2021</span>
     <h1>Organiseer een teamuitje met elektrische scooters</h1>
-    <figure><img src="/assets/img/teamuitje-e-choppers-giethoorn-960.webp" srcset="/assets/img/teamuitje-e-choppers-giethoorn-480.webp 480w, /assets/img/teamuitje-e-choppers-giethoorn-960.webp 960w, /assets/img/teamuitje-e-choppers-giethoorn-1200.webp 1200w" sizes="(max-width: 800px) 100vw, 760px" width="1200" height="900" alt="Collega&#x27;s op e-choppers tijdens een teamuitje" loading="lazy" decoding="async" class="rounded"></figure>
+    <figure><img src="/assets/img/teamuitje-e-choppers-giethoorn-960.webp" srcset="/assets/img/teamuitje-e-choppers-giethoorn-480.webp 480w, /assets/img/teamuitje-e-choppers-giethoorn-960.webp 960w, /assets/img/teamuitje-e-choppers-giethoorn-1200.webp 1200w" sizes="(max-width: 800px) 100vw, 760px" width="1200" height="810" alt="Collega&#x27;s op e-choppers tijdens een teamuitje" loading="lazy" decoding="async" class="rounded"></figure>
     <p><strong>Wat ga je dit jaar als teamuitje organiseren? Een zeskamp, wadlopen, of een tocht op onze elektrische tweewielers? Wij weten het wel.</strong></p>
     <h2>Met een glimlach op je gezicht</h2>
     <p>Als we onze e-choppers aan mensen laten zien, verschijnt er meteen een glimlach. Bij Badass Rentals beleef je met je collega's het stoerste bedrijfsuitje ooit: stap op, draai de sleutel om en cruise door Nationaal Park Weerribben-Wieden.</p>

diff --git a/public/index.html b/public/index.html
@@ -173,7 +173,7 @@
 <section class="section section-alt">
   <div class="wrap split rev">
     <div>
-      <img src="/assets/img/teamuitje-e-choppers-giethoorn-960.webp" srcset="/assets/img/teamuitje-e-choppers-giethoorn-480.webp 480w, /assets/img/teamuitje-e-choppers-giethoorn-960.webp 960w, /assets/img/teamuitje-e-choppers-giethoorn-1200.webp 1200w" sizes="(max-width: 860px) 100vw, 50vw" width="1200" height="900" alt="Collega&#x27;s op e-choppers tijdens een teamuitje in Giethoorn" loading="lazy" decoding="async">
+      <img src="/assets/img/teamuitje-e-choppers-giethoorn-960.webp" srcset="/assets/img/teamuitje-e-choppers-giethoorn-480.webp 480w, /assets/img/teamuitje-e-choppers-giethoorn-960.webp 960w, /assets/img/teamuitje-e-choppers-giethoorn-1200.webp 1200w" sizes="(max-width: 860px) 100vw, 50vw" width="1200" height="810" alt="Collega&#x27;s op e-choppers tijdens een teamuitje in Giethoorn" loading="lazy" decoding="async">
     </div>
     <div>
       <span class="eyebrow">Groepen &amp; bedrijven</span>

diff --git a/public/arrangementen/index.html b/public/arrangementen/index.html
@@ -131,7 +131,7 @@
       <a class="btn btn-dark" href="/teamuitje-met-echopper/">Teamuitje aanvragen</a>
     </div>
     <div>
-      <img src="/assets/img/teamuitje-e-choppers-giethoorn-960.webp" srcset="/assets/img/teamuitje-e-choppers-giethoorn-480.webp 480w, /assets/img/teamuitje-e-choppers-giethoorn-960.webp 960w, /assets/img/teamuitje-e-choppers-giethoorn-1200.webp 1200w" sizes="(max-width: 860px) 100vw, 50vw" width="1200" height="900" alt="Collega&#x27;s op e-choppers tijdens een teamuitje" loading="lazy" decoding="async">
+      <img src="/assets/img/teamuitje-e-choppers-giethoorn-960.webp" srcset="/assets/img/teamuitje-e-choppers-giethoorn-480.webp 480w, /assets/img/teamuitje-e-choppers-giethoorn-960.webp 960w, /assets/img/teamuitje-e-choppers-giethoorn-1200.webp 1200w" sizes="(max-width: 860px) 100vw, 50vw" width="1200" height="810" alt="Collega&#x27;s op e-choppers tijdens een teamuitje" loading="lazy" decoding="async">
     </div>
   </div>
 </section>

diff --git a/public/teamuitje-met-echopper/index.html b/public/teamuitje-met-echopper/index.html
@@ -73,7 +73,7 @@
       </ul>
     </div>
     <div>
-      <img src="/assets/img/teamuitje-e-choppers-giethoorn-960.webp" srcset="/assets/img/teamuitje-e-choppers-giethoorn-480.webp 480w, /assets/img/teamuitje-e-choppers-giethoorn-960.webp 960w, /assets/img/teamuitje-e-choppers-giethoorn-1200.webp 1200w" sizes="(max-width: 860px) 100vw, 50vw" width="1200" height="900" alt="Collega&#x27;s op e-choppers tijdens een bedrijfsuitje in Giethoorn" loading="lazy" decoding="async">
+      <img src="/assets/img/teamuitje-e-choppers-giethoorn-960.webp" srcset="/assets/img/teamuitje-e-choppers-giethoorn-480.webp 480w, /assets/img/teamuitje-e-choppers-giethoorn-960.webp 960w, /assets/img/teamuitje-e-choppers-giethoorn-1200.webp 1200w" sizes="(max-width: 860px) 100vw, 50vw" width="1200" height="810" alt="Collega&#x27;s op e-choppers tijdens een bedrijfsuitje in Giethoorn" loading="lazy" decoding="async">
     </div>
   </div>
 </section>
